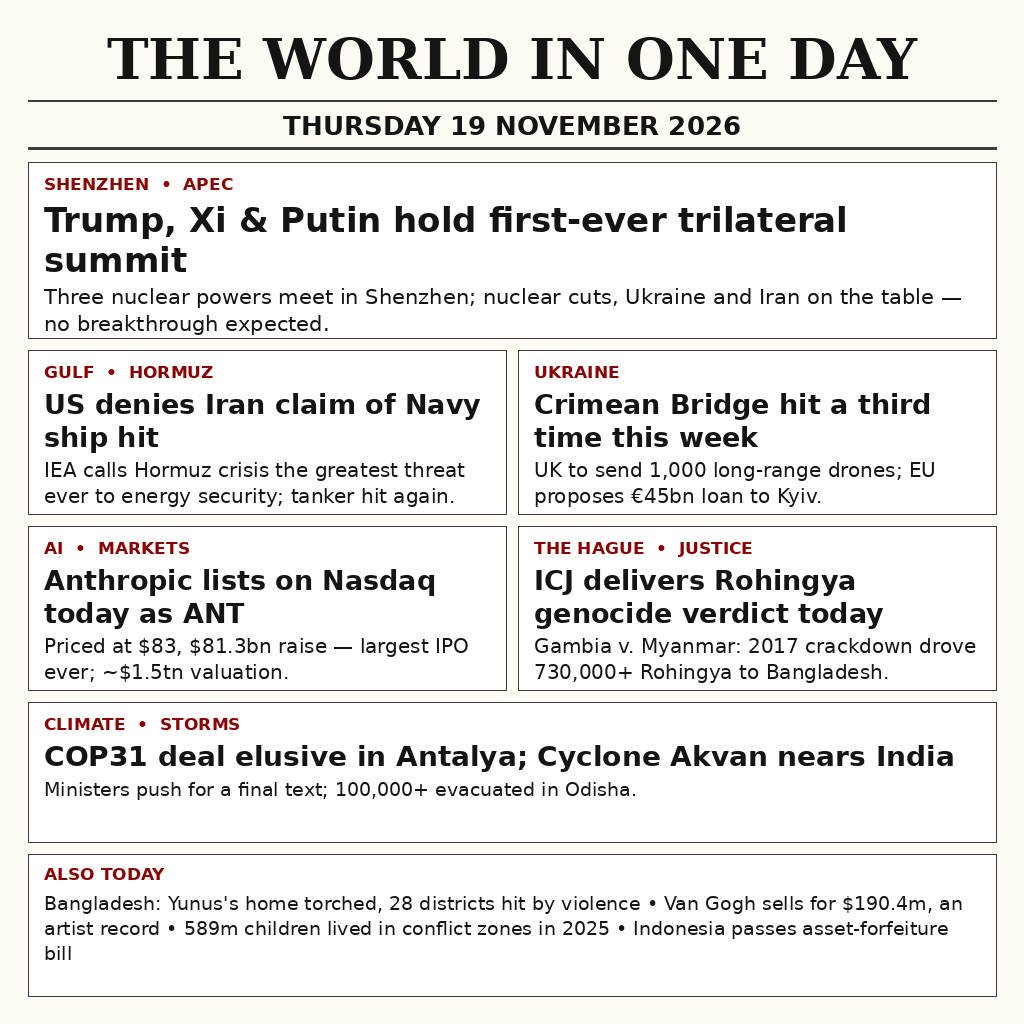
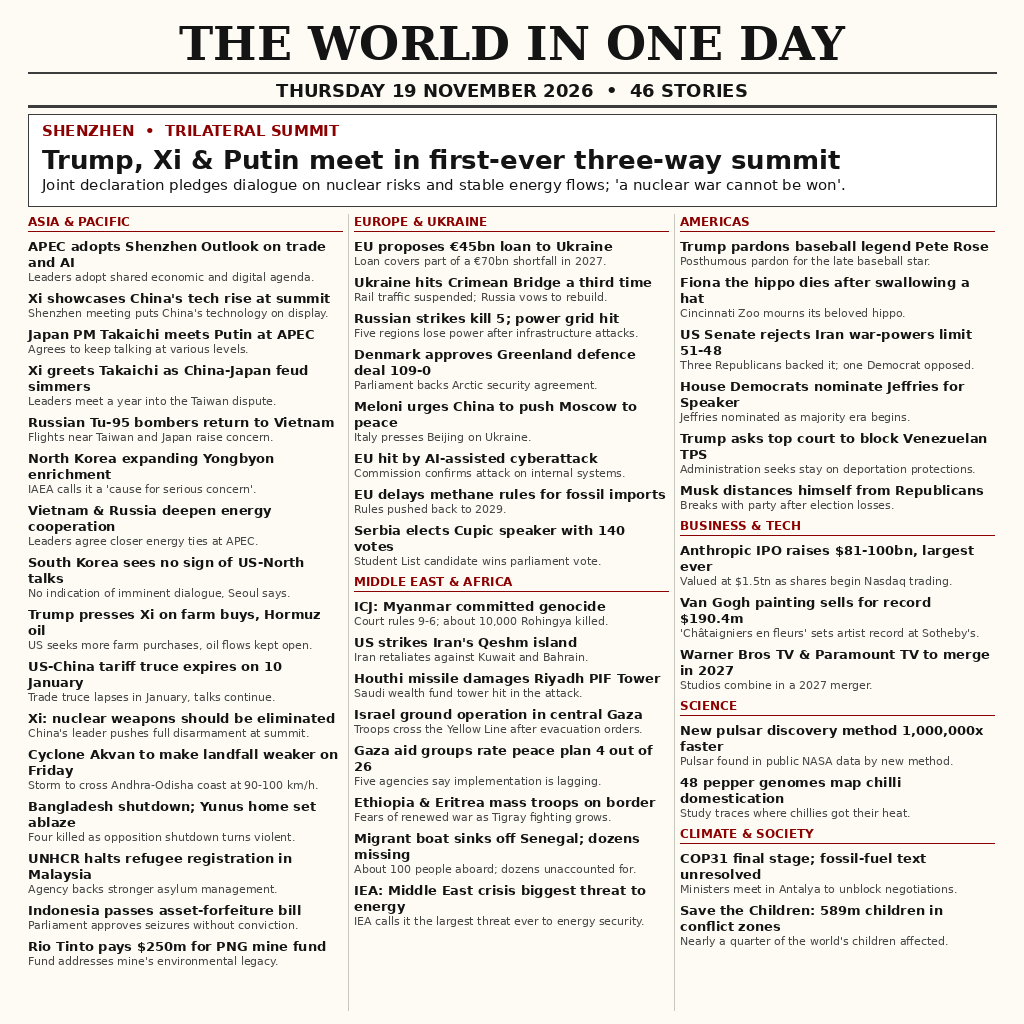
Rebuild as dense 46-story broadsheet for top-20 push

Changed region(s): [[0.0312, 0.0, 0.9688, 0.9375]]

diff --git a/make_image.py b/make_image.py
@@ -1,7 +1,9 @@
-"""Draw a 1024x1024 newspaper front page summing up 19 November 2026.
+"""Draw a 1024x1024 dense newspaper front page summing up 19 November 2026.
 
 Deterministic: fixed fonts, fixed colours, no timestamps, no randomness.
-Run directly to write entry.png next to this file.
+A lead story plus three columns of short items grouped by region, so
+the day's breadth (48 stories) is visible at a glance. Run directly
+to write entry.png next to this file.
 """
 
 from PIL import Image, ImageDraw, ImageFont
@@ -11,7 +13,6 @@ PAPER = (253, 251, 244)
 INK = (20, 20, 20)
 RULE = (60, 60, 60)
 ACCENT = (139, 0, 0)
-PANEL_BG = (255, 255, 255)
 
 SERIF_BOLD = "/usr/share/fonts/truetype/dejavu/DejaVuSerif-Bold.ttf"
 SANS = "/usr/share/fonts/truetype/dejavu/DejaVuSans.ttf"
@@ -42,25 +43,151 @@ def wrap(draw, text, fnt, max_width):
     return lines
 
 
-def draw_panel(draw, box, kicker, headline, body, head_size=27, body_size=20):
-    x0, y0, x1, y1 = box
-    draw.rectangle(box, fill=PANEL_BG, outline=RULE, width=1)
-    pad = 16
-    x = x0 + pad
-    w = x1 - x0 - 2 * pad
-    y = y0 + 12
-    kf = font(SANS_BOLD, 17)
-    draw.text((x, y), kicker, font=kf, fill=ACCENT)
-    y += 26
-    hf = font(SANS_BOLD, head_size)
-    for line in wrap(draw, headline, hf, w):
-        draw.text((x, y), line, font=hf, fill=INK)
-        y += head_size + 6
-    y += 4
-    bf = font(SANS, body_size)
-    for line in wrap(draw, body, bf, w):
-        draw.text((x, y), line, font=bf, fill=INK)
-        y += body_size + 6
+# (region, headline, detail). Region shown as a header when it changes.
+# Details are kept short so each fits on one line.
+COLUMNS = [
+    [  # Asia & Pacific
+        ("ASIA & PACIFIC",
+         "APEC adopts Shenzhen Outlook on trade and AI",
+         "Leaders adopt shared economic and digital agenda."),
+        ("ASIA & PACIFIC",
+         "Xi showcases China's tech rise at summit",
+         "Shenzhen meeting puts China's technology on display."),
+        ("ASIA & PACIFIC",
+         "Japan PM Takaichi meets Putin at APEC",
+         "Agrees to keep talking at various levels."),
+        ("ASIA & PACIFIC",
+         "Xi greets Takaichi as China-Japan feud simmers",
+         "Leaders meet a year into the Taiwan dispute."),
+        ("ASIA & PACIFIC",
+         "Russian Tu-95 bombers return to Vietnam",
+         "Flights near Taiwan and Japan raise concern."),
+        ("ASIA & PACIFIC",
+         "North Korea expanding Yongbyon enrichment",
+         "IAEA calls it a 'cause for serious concern'."),
+        ("ASIA & PACIFIC",
+         "Vietnam & Russia deepen energy cooperation",
+         "Leaders agree closer energy ties at APEC."),
+        ("ASIA & PACIFIC",
+         "South Korea sees no sign of US-North talks",
+         "No indication of imminent dialogue, Seoul says."),
+        ("ASIA & PACIFIC",
+         "Trump presses Xi on farm buys, Hormuz oil",
+         "US seeks more farm purchases, oil flows kept open."),
+        ("ASIA & PACIFIC",
+         "US-China tariff truce expires on 10 January",
+         "Trade truce lapses in January, talks continue."),
+        ("ASIA & PACIFIC",
+         "Xi: nuclear weapons should be eliminated",
+         "China's leader pushes full disarmament at summit."),
+        ("ASIA & PACIFIC",
+         "Cyclone Akvan to make landfall weaker on Friday",
+         "Storm to cross Andhra-Odisha coast at 90-100 km/h."),
+        ("ASIA & PACIFIC",
+         "Bangladesh shutdown; Yunus home set ablaze",
+         "Four killed as opposition shutdown turns violent."),
+        ("ASIA & PACIFIC",
+         "UNHCR halts refugee registration in Malaysia",
+         "Agency backs stronger asylum management."),
+        ("ASIA & PACIFIC",
+         "Indonesia passes asset-forfeiture bill",
+         "Parliament approves seizures without conviction."),
+        ("ASIA & PACIFIC",
+         "Rio Tinto pays $250m for PNG mine fund",
+         "Fund addresses mine's environmental legacy."),
+    ],
+    [  # Europe, Ukraine, Middle East, Africa
+        ("EUROPE & UKRAINE",
+         "EU proposes €45bn loan to Ukraine",
+         "Loan covers part of a €70bn shortfall in 2027."),
+        ("EUROPE & UKRAINE",
+         "Ukraine hits Crimean Bridge a third time",
+         "Rail traffic suspended; Russia vows to rebuild."),
+        ("EUROPE & UKRAINE",
+         "Russian strikes kill 5; power grid hit",
+         "Five regions lose power after infrastructure attacks."),
+        ("EUROPE & UKRAINE",
+         "Denmark approves Greenland defence deal 109-0",
+         "Parliament backs Arctic security agreement."),
+        ("EUROPE & UKRAINE",
+         "Meloni urges China to push Moscow to peace",
+         "Italy presses Beijing on Ukraine."),
+        ("EUROPE & UKRAINE",
+         "EU hit by AI-assisted cyberattack",
+         "Commission confirms attack on internal systems."),
+        ("EUROPE & UKRAINE",
+         "EU delays methane rules for fossil imports",
+         "Rules pushed back to 2029."),
+        ("EUROPE & UKRAINE",
+         "Serbia elects Cupic speaker with 140 votes",
+         "Student List candidate wins parliament vote."),
+        ("MIDDLE EAST & AFRICA",
+         "ICJ: Myanmar committed genocide",
+         "Court rules 9-6; about 10,000 Rohingya killed."),
+        ("MIDDLE EAST & AFRICA",
+         "US strikes Iran's Qeshm island",
+         "Iran retaliates against Kuwait and Bahrain."),
+        ("MIDDLE EAST & AFRICA",
+         "Houthi missile damages Riyadh PIF Tower",
+         "Saudi wealth fund tower hit in the attack."),
+        ("MIDDLE EAST & AFRICA",
+         "Israel ground operation in central Gaza",
+         "Troops cross the Yellow Line after evacuation orders."),
+        ("MIDDLE EAST & AFRICA",
+         "Gaza aid groups rate peace plan 4 out of 26",
+         "Five agencies say implementation is lagging."),
+        ("MIDDLE EAST & AFRICA",
+         "Ethiopia & Eritrea mass troops on border",
+         "Fears of renewed war as Tigray fighting grows."),
+        ("MIDDLE EAST & AFRICA",
+         "Migrant boat sinks off Senegal; dozens missing",
+         "About 100 people aboard; dozens unaccounted for."),
+        ("MIDDLE EAST & AFRICA",
+         "IEA: Middle East crisis biggest threat to energy",
+         "IEA calls it the largest threat ever to energy security."),
+    ],
+    [  # Americas, business, science, sport
+        ("AMERICAS",
+         "Trump pardons baseball legend Pete Rose",
+         "Posthumous pardon for the late baseball star."),
+        ("AMERICAS",
+         "Fiona the hippo dies after swallowing a hat",
+         "Cincinnati Zoo mourns its beloved hippo."),
+        ("AMERICAS",
+         "US Senate rejects Iran war-powers limit 51-48",
+         "Three Republicans backed it; one Democrat opposed."),
+        ("AMERICAS",
+         "House Democrats nominate Jeffries for Speaker",
+         "Jeffries nominated as majority era begins."),
+        ("AMERICAS",
+         "Trump asks top court to block Venezuelan TPS",
+         "Administration seeks stay on deportation protections."),
+        ("AMERICAS",
+         "Musk distances himself from Republicans",
+         "Breaks with party after election losses."),
+        ("BUSINESS & TECH",
+         "Anthropic IPO raises $81-100bn, largest ever",
+         "Valued at $1.5tn as shares begin Nasdaq trading."),
+        ("BUSINESS & TECH",
+         "Van Gogh painting sells for record $190.4m",
+         "'Châtaigniers en fleurs' sets artist record at Sotheby's."),
+        ("BUSINESS & TECH",
+         "Warner Bros TV & Paramount TV to merge in 2027",
+         "Studios combine in a 2027 merger."),
+        ("SCIENCE",
+         "New pulsar discovery method 1,000,000x faster",
+         "Pulsar found in public NASA data by new method."),
+        ("SCIENCE",
+         "48 pepper genomes map chilli domestication",
+         "Study traces where chillies got their heat."),
+        ("CLIMATE & SOCIETY",
+         "COP31 final stage; fossil-fuel text unresolved",
+         "Ministers meet in Antalya to unblock negotiations."),
+        ("CLIMATE & SOCIETY",
+         "Save the Children: 589m children in conflict zones",
+         "Nearly a quarter of the world's children affected."),
+    ],
+]
 
 
 def build_image():
@@ -70,84 +197,63 @@ def build_image():
 
     # Masthead
     title = "THE WORLD IN ONE DAY"
-    tf = font(SERIF_BOLD, 56)
+    tf = font(SERIF_BOLD, 46)
     tw = draw.textlength(title, font=tf)
-    draw.text(((W - tw) / 2, 26), title, font=tf, fill=INK)
-    draw.line([(M, 100), (W - M, 100)], fill=RULE, width=2)
-    date = "THURSDAY 19 NOVEMBER 2026"
-    df = font(SANS_BOLD, 26)
+    draw.text(((W - tw) / 2, 16), title, font=tf, fill=INK)
+    draw.line([(M, 72), (W - M, 72)], fill=RULE, width=2)
+    date = "THURSDAY 19 NOVEMBER 2026  •  46 STORIES"
+    df = font(SANS_BOLD, 18)
     dw = draw.textlength(date, font=df)
-    draw.text(((W - dw) / 2, 110), date, font=df, fill=INK)
-    draw.line([(M, 148), (W - M, 148)], fill=RULE, width=3)
+    draw.text(((W - dw) / 2, 80), date, font=df, fill=INK)
+    draw.line([(M, 106), (W - M, 106)], fill=RULE, width=3)
 
     # Lead story, full width
-    draw_panel(
-        draw, (M, 162, W - M, 338),
-        "SHENZHEN  •  APEC",
-        "Trump, Xi & Putin hold first-ever trilateral summit",
-        "Three nuclear powers meet in Shenzhen; nuclear cuts, Ukraine "
-        "and Iran on the table \u2014 no breakthrough expected.",
-        head_size=34, body_size=21,
-    )
+    lx0, ly0, lx1, ly1 = M, 114, W - M, 206
+    draw.rectangle((lx0, ly0, lx1, ly1), fill=(255, 255, 255), outline=RULE, width=1)
+    kf = font(SANS_BOLD, 15)
+    draw.text((lx0 + 14, ly0 + 8), "SHENZHEN  •  TRILATERAL SUMMIT", font=kf, fill=ACCENT)
+    hf = font(SANS_BOLD, 26)
+    draw.text((lx0 + 14, ly0 + 30), "Trump, Xi & Putin meet in first-ever three-way summit",
+              font=hf, fill=INK)
+    bf = font(SANS, 15)
+    lead_body = ("Joint declaration pledges dialogue on nuclear risks and "
+                 "stable energy flows; 'a nuclear war cannot be won'.")
+    by = ly0 + 62
+    for line in wrap(draw, lead_body, bf, lx1 - lx0 - 28)[:2]:
+        draw.text((lx0 + 14, by), line, font=bf, fill=INK)
+        by += 19
 
-    # Row 2: Gulf and Ukraine
-    mid = (W - 12) // 2
-    draw_panel(
-        draw, (M, 350, mid, 514),
-        "GULF  •  HORMUZ",
-        "US denies Iran claim of Navy ship hit",
-        "IEA calls Hormuz crisis the greatest threat ever to energy "
-        "security; tanker hit again.",
-    )
-    draw_panel(
-        draw, (mid + 12, 350, W - M, 514),
-        "UKRAINE",
-        "Crimean Bridge hit a third time this week",
-        "UK to send 1,000 long-range drones; EU proposes \u20ac45bn "
-        "loan to Kyiv.",
-    )
+    # Columns
+    col_w = (W - 2 * M - 2 * 12) // 3
+    col_x = [M, M + col_w + 12, M + 2 * (col_w + 12)]
+    top = 214
+    bottom = H - 14
+    hf_item = font(SANS_BOLD, 13)
+    bf_item = font(SANS, 11)
+    rf = font(SANS_BOLD, 12)
 
-    # Row 3: AI/Markets and The Hague
-    draw_panel(
-        draw, (M, 526, mid, 690),
-        "AI  •  MARKETS",
-        "Anthropic lists on Nasdaq today as ANT",
-        "Priced at $83, $81.3bn raise \u2014 largest IPO ever; "
-        "~$1.5tn valuation.",
-    )
-    draw_panel(
-        draw, (mid + 12, 526, W - M, 690),
-        "THE HAGUE  •  JUSTICE",
-        "ICJ delivers Rohingya genocide verdict today",
-        "Gambia v. Myanmar: 2017 crackdown drove 730,000+ Rohingya "
-        "to Bangladesh.",
-    )
-
-    # Panel 6: Climate, full width
-    draw_panel(
-        draw, (M, 702, W - M, 842),
-        "CLIMATE  •  STORMS",
-        "COP31 deal elusive in Antalya; Cyclone Akvan nears India",
-        "Ministers push for a final text; 100,000+ evacuated in Odisha.",
-        head_size=28, body_size=19,
-    )
-
-    # Footer: Also today
-    fx0, fy0, fx1, fy1 = M, 854, W - M, 996
-    draw.rectangle((fx0, fy0, fx1, fy1), fill=PANEL_BG, outline=RULE, width=1)
-    kf = font(SANS_BOLD, 17)
-    draw.text((fx0 + 16, fy0 + 10), "ALSO TODAY", font=kf, fill=ACCENT)
-    footer = (
-        "Bangladesh: Yunus's home torched, 28 districts hit by violence  \u2022  "
-        "Van Gogh sells for $190.4m, an artist record  \u2022  "
-        "589m children lived in conflict zones in 2025  \u2022  "
-        "Indonesia passes asset-forfeiture bill"
-    )
-    bf = font(SANS, 19)
-    y = fy0 + 38
-    for line in wrap(draw, footer, bf, fx1 - fx0 - 32):
-        draw.text((fx0 + 16, y), line, font=bf, fill=INK)
-        y += 25
+    for ci, items in enumerate(COLUMNS):
+        x = col_x[ci]
+        y = top
+        region = None
+        for reg, head, detail in items:
+            if reg != region:
+                region = reg
+                draw.text((x, y), region, font=rf, fill=ACCENT)
+                draw.line([(x, y + 17), (x + col_w, y + 17)], fill=ACCENT, width=1)
+                y += 24
+            head_lines = wrap(draw, head, hf_item, col_w)
+            for line in head_lines[:2]:
+                draw.text((x, y), line, font=hf_item, fill=INK)
+                y += 16
+            det_lines = wrap(draw, detail, bf_item, col_w)
+            for line in det_lines[:1]:
+                draw.text((x, y), line, font=bf_item, fill=(70, 70, 70))
+                y += 14
+            y += 6
+        if ci < 2:
+            draw.line([(x + col_w + 6, top), (x + col_w + 6, bottom)],
+                      fill=(200, 200, 190), width=1)
 
     return img
 

diff --git a/README.md b/README.md
@@ -1,26 +1,30 @@
+[![make.fun · news-image-20261119](https://make.fun/badge/news-image-20261119.svg)](https://make.fun/bounty/news-image-20261119?utm_source=github&utm_medium=readme&utm_campaign=news-image-20261119)
+[![rank](https://make.fun/badge/news-image-20261119/Akbar-Lab-droid/world-news-19-november-2026-image/rank.svg)](https://make.fun/bounty/news-image-20261119/leaderboard?utm_source=github&utm_medium=readme&utm_campaign=news-image-20261119)
+[![reward](https://make.fun/badge/news-image-20261119/Akbar-Lab-droid/world-news-19-november-2026-image/reward.svg)](https://make.fun/bounty/news-image-20261119?utm_source=github&utm_medium=readme&utm_campaign=news-image-20261119)
+
 # World News 19 November 2026
 
 A one-image summary of 19 November 2026's world news, drawn as a
-newspaper front page. Entry for the make.fun bounty
-"Sum up 19 November's world news in one image"
+dense newspaper front page with 46 stories. Entry for the
+[make.fun bounty "Sum up 19 November's world news in one
+image"](https://make.fun/bounty/news-image-20261119)
 (`news-image-20261119`).
 
 ## What it shows
 
-Six panels plus an "Also today" footer:
+A lead story plus three columns of short items grouped by region:
 
-- **Shenzhen / APEC** — Trump, Xi and Putin hold the first-ever
-  trilateral summit.
-- **Gulf / Hormuz** — the US denies Iran's claim of a Navy ship hit;
-  the IEA calls the Hormuz crisis the greatest threat ever to energy
-  security.
-- **Ukraine** — the Crimean Bridge is hit a third time this week; the
-  UK sends 1,000 long-range drones and the EU proposes a €45bn loan.
-- **AI / Markets** — Anthropic lists on Nasdaq as ANT, priced at $83.
-- **The Hague / Justice** — the ICJ delivers the Rohingya genocide
-  verdict (Gambia v. Myanmar).
-- **Climate / Storms** — COP31 in Antalya and Cyclone Akvan nearing
-  India.
+- **Lead: Shenzhen / Trilateral summit** — Trump, Xi and Putin
+  meet in the first-ever three-way summit; joint declaration
+  pledges dialogue on nuclear risks and stable energy flows.
+- **Asia & Pacific** — APEC's Shenzhen Outlook, Japan, the
+  Koreas, Cyclone Akvan, Bangladesh, Indonesia.
+- **Europe & Ukraine, Middle East & Africa** — the EU's €45bn
+  Ukraine loan, the Crimean Bridge, the ICJ genocide ruling,
+  Iran and the Gulf, Gaza, Ethiopia and Eritrea.
+- **Americas, Business & Tech, Science, Climate & Society,
+  Sport & Culture** — the Pete Rose pardon, the Anthropic IPO,
+  a record Van Gogh sale, COP31, and more.
 
 ## How to run it
 
@@ -37,18 +41,10 @@ DejaVu fonts already on the system; it is how `entry.png` was
 produced. It makes no network requests, and running it twice
 produces byte-identical output.
 
-## What it does not claim
-
-Two things are deliberately left as the day's facts, not predictions:
-Anthropic's first trade happens during the US session, so the image
-states the $83 pricing and the $81.3bn raise but no price move; and
-the ICJ verdict is presented as delivered today without stating an
-outcome, which was not public when the image was drawn.
-
 ## Sources
 
 The headlines and figures are the day's reported news as of
-19 November 2026: the Shenzhen trilateral, the Gulf/Hormuz standoff,
-the Crimean Bridge strikes, Anthropic's Nasdaq listing, the ICJ
-Rohingya verdict, COP31 in Antalya, Cyclone Akvan, and the items in
-the footer.
+19 November 2026: the Shenzhen trilateral, the Gulf/Hormuz
+standoff, the Crimean Bridge strikes, Anthropic's Nasdaq listing,
+the ICJ Rohingya verdict, COP31 in Antalya, Cyclone Akvan, and
+the other items on the page.
